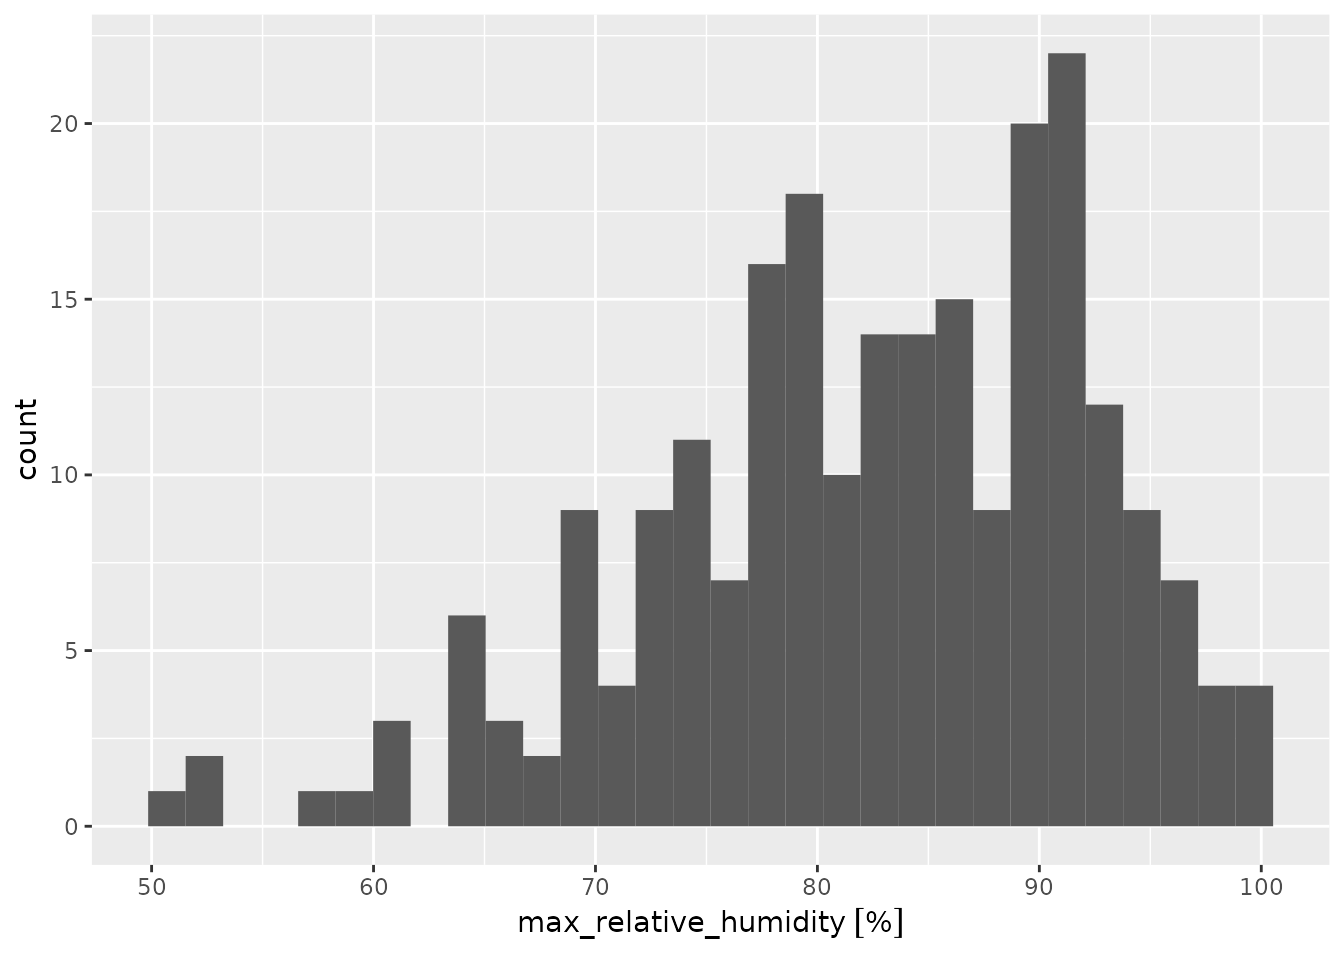
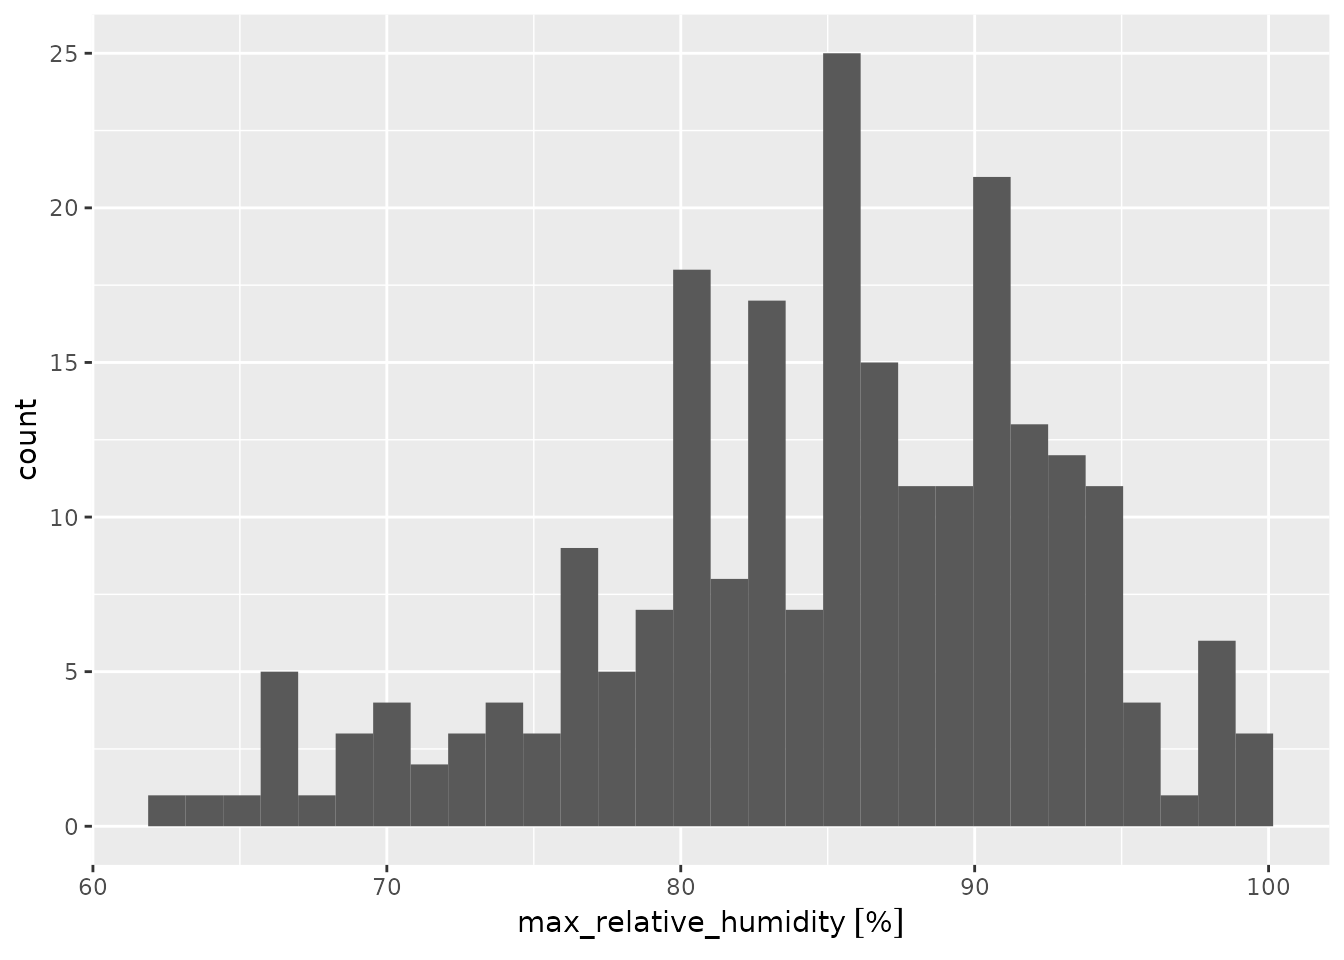
Deploying to gh-pages from @ emf-creaf/meteospain@50d5c1b44555bf137ee41d9114b482b3da4bd959 🚀

diff --git a/articles/meteoclimatic.html b/articles/meteoclimatic.html
@@ -166,12 +166,12 @@ one.</p>
 <p>Accessing station metadata for Meteoclimatic is simple:</p>
 <div class="sourceCode" id="cb3"><pre class="downlit sourceCode r">
 <code class="sourceCode R"><span><span class="fu"><a href="../reference/get_stations_info_from.html">get_stations_info_from</a></span><span class="op">(</span><span class="st">'meteoclimatic'</span>, options <span class="op">=</span> <span class="va">api_options</span><span class="op">)</span></span>
-<span><span class="co">#&gt; Simple feature collection with 235 features and 3 fields</span></span>
+<span><span class="co">#&gt; Simple feature collection with 233 features and 3 fields</span></span>
 <span><span class="co">#&gt; Geometry type: POINT</span></span>
 <span><span class="co">#&gt; Dimension:     XY</span></span>
 <span><span class="co">#&gt; Bounding box:  xmin: 1.58 ymin: 1.66 xmax: 41.48 ymax: 42.26</span></span>
 <span><span class="co">#&gt; Geodetic CRS:  WGS 84</span></span>
-<span><span class="co">#&gt; <span style="color: #949494;"># A tibble: 235 × 4</span></span></span>
+<span><span class="co">#&gt; <span style="color: #949494;"># A tibble: 233 × 4</span></span></span>
 <span><span class="co">#&gt;    service       station_id          station_name          geometry</span></span>
 <span><span class="co">#&gt;  <span style="color: #BCBCBC;">*</span> <span style="color: #949494; font-style: italic;">&lt;chr&gt;</span>         <span style="color: #949494; font-style: italic;">&lt;chr&gt;</span>               <span style="color: #949494; font-style: italic;">&lt;chr&gt;</span>              <span style="color: #949494; font-style: italic;">&lt;POINT [°]&gt;</span></span></span>
 <span><span class="co">#&gt; <span style="color: #BCBCBC;"> 1</span> meteoclimatic ESCAT0800000008591A Aiguafreda (Barc… (2.25 41.77)</span></span>
@@ -184,7 +184,7 @@ one.</p>
 <span><span class="co">#&gt; <span style="color: #BCBCBC;"> 8</span> meteoclimatic ESCAT0800000008911C Badalona - Dalt … (2.26 41.46)</span></span>
 <span><span class="co">#&gt; <span style="color: #BCBCBC;"> 9</span> meteoclimatic ESCAT0800000008917B Badalona - La Pa… (2.22 41.45)</span></span>
 <span><span class="co">#&gt; <span style="color: #BCBCBC;">10</span> meteoclimatic ESCAT0800000008080A Badalona - Llefi… (2.23 41.44)</span></span>
-<span><span class="co">#&gt; <span style="color: #949494;"># … with 225 more rows</span></span></span></code></pre></div>
+<span><span class="co">#&gt; <span style="color: #949494;"># … with 223 more rows</span></span></span></code></pre></div>
 </div>
 <div class="section level3">
 <h3 id="meteoclimatic-data">Meteoclimatic data<a class="anchor" aria-label="anchor" href="#meteoclimatic-data"></a>
@@ -195,25 +195,25 @@ one.</p>
 <span><span class="co"><span style="color: #BBBB00; font-weight: bold;">#&gt; No quality check is performed in this data, and errors in measures or coordinates of stations can be present.</span></span></span>
 <span><span class="co"><span style="color: #BBBB00; font-weight: bold;">#&gt; </span><span style="color: #0000BB; font-weight: bold; text-decoration: underline;">https://www.meteoclimatic.net/index</span></span></span>
 <span><span class="va">current_day_barcelona</span></span>
-<span><span class="co">#&gt; Simple feature collection with 234 features and 9 fields</span></span>
+<span><span class="co">#&gt; Simple feature collection with 233 features and 9 fields</span></span>
 <span><span class="co">#&gt; Geometry type: POINT</span></span>
 <span><span class="co">#&gt; Dimension:     XY</span></span>
 <span><span class="co">#&gt; Bounding box:  xmin: 1.58 ymin: 1.66 xmax: 41.48 ymax: 42.26</span></span>
 <span><span class="co">#&gt; Geodetic CRS:  WGS 84</span></span>
-<span><span class="co">#&gt; <span style="color: #949494;"># A tibble: 234 × 10</span></span></span>
+<span><span class="co">#&gt; <span style="color: #949494;"># A tibble: 233 × 10</span></span></span>
 <span><span class="co">#&gt;    timestamp           service   stati…¹ stati…² min_t…³ max_t…⁴ min_r…⁵ max_r…⁶</span></span>
 <span><span class="co">#&gt;  <span style="color: #BCBCBC;">*</span> <span style="color: #949494; font-style: italic;">&lt;dttm&gt;</span>              <span style="color: #949494; font-style: italic;">&lt;chr&gt;</span>     <span style="color: #949494; font-style: italic;">&lt;chr&gt;</span>   <span style="color: #949494; font-style: italic;">&lt;chr&gt;</span>      <span style="color: #949494;">[°C]</span>    <span style="color: #949494;">[°C]</span>     <span style="color: #949494;">[%]</span>     <span style="color: #949494;">[%]</span></span></span>
-<span><span class="co">#&gt; <span style="color: #BCBCBC;"> 1</span> 2023-01-16 <span style="color: #949494;">11:00:00</span> meteocli… ESCAT0… Granol…     5.1    11.8      62      84</span></span>
-<span><span class="co">#&gt; <span style="color: #BCBCBC;"> 2</span> 2023-01-16 <span style="color: #949494;">11:00:00</span> meteocli… ESCAT0… La Pob…    -<span style="color: #BB0000;">0.6</span>     7.8      46      88</span></span>
-<span><span class="co">#&gt; <span style="color: #BCBCBC;"> 3</span> 2023-01-16 <span style="color: #949494;">11:02:00</span> meteocli… ESCAT0… Vallro…     2.9    11.6      62      98</span></span>
-<span><span class="co">#&gt; <span style="color: #BCBCBC;"> 4</span> 2023-01-16 <span style="color: #949494;">11:04:00</span> meteocli… ESCAT0… Santa …     5.1    12.7      50      79</span></span>
-<span><span class="co">#&gt; <span style="color: #BCBCBC;"> 5</span> 2023-01-16 <span style="color: #949494;">11:04:00</span> meteocli… ESCAT0… Gualba…     4.7    11.8      55      94</span></span>
-<span><span class="co">#&gt; <span style="color: #BCBCBC;"> 6</span> 2023-01-16 <span style="color: #949494;">11:05:00</span> meteocli… ESCAT0… Sant F…     1.9     9.5      64      88</span></span>
-<span><span class="co">#&gt; <span style="color: #BCBCBC;"> 7</span> 2023-01-16 <span style="color: #949494;">11:05:00</span> meteocli… ESCAT0… La Flo…     4.4    13.3      48      75</span></span>
-<span><span class="co">#&gt; <span style="color: #BCBCBC;"> 8</span> 2023-01-16 <span style="color: #949494;">11:05:00</span> meteocli… ESCAT0… Pineda…     6.5    13.3      54      96</span></span>
-<span><span class="co">#&gt; <span style="color: #BCBCBC;"> 9</span> 2023-01-16 <span style="color: #949494;">11:05:00</span> meteocli… ESCAT0… Bagà (…    -<span style="color: #BB0000;">0.7</span>     9.3      54      88</span></span>
-<span><span class="co">#&gt; <span style="color: #BCBCBC;">10</span> 2023-01-16 <span style="color: #949494;">11:05:00</span> meteocli… ESCAT0… Gavà -…     7.5    15.3      44      69</span></span>
-<span><span class="co">#&gt; <span style="color: #949494;"># … with 224 more rows, 2 more variables: precipitation [L/m^2],</span></span></span>
+<span><span class="co">#&gt; <span style="color: #BCBCBC;"> 1</span> 2023-01-20 <span style="color: #949494;">17:30:00</span> meteocli… ESCAT0… Vic - …    -<span style="color: #BB0000;">0.5</span>     9.9      14      91</span></span>
+<span><span class="co">#&gt; <span style="color: #BCBCBC;"> 2</span> 2023-01-20 <span style="color: #949494;">17:30:00</span> meteocli… ESCAT0… La Pob…     0.9     6.6      14      91</span></span>
+<span><span class="co">#&gt; <span style="color: #BCBCBC;"> 3</span> 2023-01-20 <span style="color: #949494;">17:32:00</span> meteocli… ESCAT0… Vallro…     0.7    11.7      61      98</span></span>
+<span><span class="co">#&gt; <span style="color: #BCBCBC;"> 4</span> 2023-01-20 <span style="color: #949494;">17:33:00</span> meteocli… ESCAT0… Molins…     3.2    13.6      36      84</span></span>
+<span><span class="co">#&gt; <span style="color: #BCBCBC;"> 5</span> 2023-01-20 <span style="color: #949494;">17:34:00</span> meteocli… ESCAT0… Sant F…     6.5    11.3      32      66</span></span>
+<span><span class="co">#&gt; <span style="color: #BCBCBC;"> 6</span> 2023-01-20 <span style="color: #949494;">17:34:00</span> meteocli… ESCAT0… Gualba…     0.1    11.9      40      92</span></span>
+<span><span class="co">#&gt; <span style="color: #BCBCBC;"> 7</span> 2023-01-20 <span style="color: #949494;">17:34:00</span> meteocli… ESCAT0… Santa …    -<span style="color: #BB0000;">2.2</span>    10.7      18      92</span></span>
+<span><span class="co">#&gt; <span style="color: #BCBCBC;"> 8</span> 2023-01-20 <span style="color: #949494;">17:34:00</span> meteocli… ESCAT0… Rupit …    -<span style="color: #BB0000;">1.4</span>     5.4      24      97</span></span>
+<span><span class="co">#&gt; <span style="color: #BCBCBC;"> 9</span> 2023-01-20 <span style="color: #949494;">17:34:00</span> meteocli… ESCAT0… Aiguaf…    -<span style="color: #BB0000;">2.4</span>    12.9      14      92</span></span>
+<span><span class="co">#&gt; <span style="color: #BCBCBC;">10</span> 2023-01-20 <span style="color: #949494;">17:34:00</span> meteocli… ESCAT0… Torrel…     4.7    11.7      25      81</span></span>
+<span><span class="co">#&gt; <span style="color: #949494;"># … with 223 more rows, 2 more variables: precipitation [L/m^2],</span></span></span>
 <span><span class="co">#&gt; <span style="color: #949494;">#   geometry &lt;POINT [°]&gt;, and abbreviated variable names ¹station_id,</span></span></span>
 <span><span class="co">#&gt; <span style="color: #949494;">#   ²station_name, ³min_temperature, ⁴max_temperature, ⁵min_relative_humidity,</span></span></span>
 <span><span class="co">#&gt; <span style="color: #949494;">#   ⁶max_relative_humidity</span></span></span></code></pre></div>

diff --git a/articles/meteogalicia.html b/articles/meteogalicia.html
@@ -175,10 +175,10 @@ the <code>stations</code> argument.</p>
 <span><span class="co">#&gt; [1] "instant"</span></span>
 <span><span class="co">#&gt; </span></span>
 <span><span class="co">#&gt; $start_date</span></span>
-<span><span class="co">#&gt; [1] "2023-01-16"</span></span>
+<span><span class="co">#&gt; [1] "2023-01-20"</span></span>
 <span><span class="co">#&gt; </span></span>
 <span><span class="co">#&gt; $end_date</span></span>
-<span><span class="co">#&gt; [1] "2023-01-16"</span></span>
+<span><span class="co">#&gt; [1] "2023-01-20"</span></span>
 <span><span class="co">#&gt; </span></span>
 <span><span class="co">#&gt; $stations</span></span>
 <span><span class="co">#&gt; NULL</span></span>
@@ -193,10 +193,10 @@ the <code>stations</code> argument.</p>
 <span><span class="co">#&gt; [1] "current_day"</span></span>
 <span><span class="co">#&gt; </span></span>
 <span><span class="co">#&gt; $start_date</span></span>
-<span><span class="co">#&gt; [1] "2023-01-16"</span></span>
+<span><span class="co">#&gt; [1] "2023-01-20"</span></span>
 <span><span class="co">#&gt; </span></span>
 <span><span class="co">#&gt; $end_date</span></span>
-<span><span class="co">#&gt; [1] "2023-01-16"</span></span>
+<span><span class="co">#&gt; [1] "2023-01-20"</span></span>
 <span><span class="co">#&gt; </span></span>
 <span><span class="co">#&gt; $stations</span></span>
 <span><span class="co">#&gt; [1] "10157" "14000" "10045"</span></span>
@@ -245,12 +245,12 @@ the <code>stations</code> argument.</p>
 <p>Accessing station metadata for MeteoGalicia is simple:</p>
 <div class="sourceCode" id="cb3"><pre class="downlit sourceCode r">
 <code class="sourceCode R"><span><span class="fu"><a href="../reference/get_stations_info_from.html">get_stations_info_from</a></span><span class="op">(</span><span class="st">'meteogalicia'</span><span class="op">)</span></span>
-<span><span class="co">#&gt; Simple feature collection with 157 features and 5 fields</span></span>
+<span><span class="co">#&gt; Simple feature collection with 156 features and 5 fields</span></span>
 <span><span class="co">#&gt; Geometry type: POINT</span></span>
 <span><span class="co">#&gt; Dimension:     XY</span></span>
 <span><span class="co">#&gt; Bounding box:  xmin: -9.178318 ymin: 41.8982 xmax: -6.765224 ymax: 43.7383</span></span>
 <span><span class="co">#&gt; Geodetic CRS:  WGS 84</span></span>
-<span><span class="co">#&gt; <span style="color: #949494;"># A tibble: 157 × 6</span></span></span>
+<span><span class="co">#&gt; <span style="color: #949494;"># A tibble: 156 × 6</span></span></span>
 <span><span class="co">#&gt;    service      station_id station_n…¹ stati…² altit…³             geometry</span></span>
 <span><span class="co">#&gt;  <span style="color: #BCBCBC;">*</span> <span style="color: #949494; font-style: italic;">&lt;chr&gt;</span>        <span style="color: #949494; font-style: italic;">&lt;chr&gt;</span>      <span style="color: #949494; font-style: italic;">&lt;chr&gt;</span>       <span style="color: #949494; font-style: italic;">&lt;chr&gt;</span>       <span style="color: #949494;">[m]</span>          <span style="color: #949494; font-style: italic;">&lt;POINT [°]&gt;</span></span></span>
 <span><span class="co">#&gt; <span style="color: #BCBCBC;"> 1</span> meteogalicia 10157      Coruña-Tor… A Coru…      21 (-8.409202 43.38276)</span></span>
@@ -263,7 +263,7 @@ the <code>stations</code> argument.</p>
 <span><span class="co">#&gt; <span style="color: #BCBCBC;"> 8</span> meteogalicia 10095      Sergude     A Coru…     231 (-8.461246 42.82283)</span></span>
 <span><span class="co">#&gt; <span style="color: #BCBCBC;"> 9</span> meteogalicia 10800      Camariñas   A Coru…       5 (-9.178318 43.12445)</span></span>
 <span><span class="co">#&gt; <span style="color: #BCBCBC;">10</span> meteogalicia 19001      Rus         A Coru…     134 (-8.685357 43.15616)</span></span>
-<span><span class="co">#&gt; <span style="color: #949494;"># … with 147 more rows, and abbreviated variable names ¹station_name,</span></span></span>
+<span><span class="co">#&gt; <span style="color: #949494;"># … with 146 more rows, and abbreviated variable names ¹station_name,</span></span></span>
 <span><span class="co">#&gt; <span style="color: #949494;">#   ²station_province, ³altitude</span></span></span></code></pre></div>
 </div>
 <div class="section level3">
@@ -282,7 +282,7 @@ the <code>stations</code> argument.</p>
 <span><span class="co"><span style="color: #BBBB00; font-weight: bold;">#&gt; que as utilice para os usos distintos do particular e privado.</span></span></span>
 <span><span class="co">#&gt; <span style="color: #0000BB; font-weight: bold; text-decoration: underline;">https://www.meteogalicia.gal/web/informacion/notaIndex.action</span></span></span>
 <span><span class="va">galicia_2020</span></span>
-<span><span class="co">#&gt; Simple feature collection with 1844 features and 13 fields</span></span>
+<span><span class="co">#&gt; Simple feature collection with 1844 features and 13 fields (with 5 geometries empty)</span></span>
 <span><span class="co">#&gt; Geometry type: POINT</span></span>
 <span><span class="co">#&gt; Dimension:     XY</span></span>
 <span><span class="co">#&gt; Bounding box:  xmin: -9.178318 ymin: 41.8982 xmax: -6.765224 ymax: 43.734</span></span>

diff --git a/articles/api_limits.html b/articles/api_limits.html
@@ -245,8 +245,6 @@ directly:</p>
 <span><span class="co">#&gt; <span style="color: #0000BB; font-weight: bold; text-decoration: underline;">https://www.aemet.es/es/nota_legal</span></span></span>
 <span><span class="co">#&gt; <span style="color: #BBBB00; font-weight: bold;">© AEMET. Autorizado el uso de la información y su reproducción citando a AEMET como autora de la misma.</span></span></span>
 <span><span class="co">#&gt; <span style="color: #0000BB; font-weight: bold; text-decoration: underline;">https://www.aemet.es/es/nota_legal</span></span></span>
-<span><span class="co">#&gt; <span style="color: #BBBB00; font-weight: bold;">API request limit reached: Client error: (429) Too Many Requests (RFC 6585)</span></span></span>
-<span><span class="co">#&gt; Trying again in 60 seconds</span></span>
 <span><span class="co">#&gt; <span style="color: #BBBB00; font-weight: bold;">© AEMET. Autorizado el uso de la información y su reproducción citando a AEMET como autora de la misma.</span></span></span>
 <span><span class="co">#&gt; <span style="color: #0000BB; font-weight: bold; text-decoration: underline;">https://www.aemet.es/es/nota_legal</span></span></span>
 <span></span>
@@ -600,10 +598,10 @@ independently of the date supplied:</p>
 <span><span class="co">#&gt; <span style="color: #BBBB00; font-weight: bold;">Data provided by meteo.cat © Servei Meteorològic de Catalunya</span></span></span>
 <span><span class="co">#&gt; <span style="color: #0000BB; font-weight: bold; text-decoration: underline;">https://www.meteo.cat/wpweb/avis-legal/#info</span></span></span>
 <span><span class="fu"><a href="https://rdrr.io/r/base/unique.html" class="external-link">unique</a></span><span class="op">(</span><span class="va">all_years</span><span class="op">$</span><span class="va">timestamp</span><span class="op">)</span></span>
-<span><span class="co">#&gt;  [1] "2008-01-16 UTC" "2009-01-16 UTC" "2010-01-16 UTC" "2011-01-16 UTC"</span></span>
-<span><span class="co">#&gt;  [5] "2012-01-16 UTC" "2013-01-16 UTC" "2014-01-16 UTC" "2015-01-16 UTC"</span></span>
-<span><span class="co">#&gt;  [9] "2016-01-16 UTC" "2017-01-16 UTC" "2018-01-16 UTC" "2019-01-16 UTC"</span></span>
-<span><span class="co">#&gt; [13] "2020-01-16 UTC" "2021-01-16 UTC" "2022-01-16 UTC"</span></span></code></pre></div>
+<span><span class="co">#&gt;  [1] "2008-01-20 UTC" "2009-01-20 UTC" "2010-01-20 UTC" "2011-01-20 UTC"</span></span>
+<span><span class="co">#&gt;  [5] "2012-01-20 UTC" "2013-01-20 UTC" "2014-01-20 UTC" "2015-01-20 UTC"</span></span>
+<span><span class="co">#&gt;  [9] "2016-01-20 UTC" "2017-01-20 UTC" "2018-01-20 UTC" "2019-01-20 UTC"</span></span>
+<span><span class="co">#&gt; [13] "2020-01-20 UTC" "2021-01-20 UTC" "2022-01-20 UTC"</span></span></code></pre></div>
 <p>This means that with yearly we always get all the data available, so
 there is no need of loops.</p>
 </div>

diff --git a/reference/get_quota_from.html b/reference/get_quota_from.html
@@ -129,8 +129,8 @@ quota numbers in the services that allow for this, <strong>(currently only Meteo
 <span class="r-out co"><span class="r-pr">#&gt;</span> <span style="color: #BCBCBC;">1</span> Prediccio_8000   Mensual         <span style="text-decoration: underline;">8</span>000              <span style="text-decoration: underline;">8</span>000                    0</span>
 <span class="r-out co"><span class="r-pr">#&gt;</span> <span style="color: #BCBCBC;">2</span> Referència Bàsic Mensual         <span style="text-decoration: underline;">2</span>000              <span style="text-decoration: underline;">2</span>000                    0</span>
 <span class="r-out co"><span class="r-pr">#&gt;</span> <span style="color: #BCBCBC;">3</span> XDDE_1500        Mensual         <span style="text-decoration: underline;">1</span>500              <span style="text-decoration: underline;">1</span>500                    0</span>
-<span class="r-out co"><span class="r-pr">#&gt;</span> <span style="color: #BCBCBC;">4</span> XEMA_20000       Mensual        <span style="text-decoration: underline;">20</span>000             <span style="text-decoration: underline;">20</span>000                    0</span>
-<span class="r-out co"><span class="r-pr">#&gt;</span> <span style="color: #BCBCBC;">5</span> Quota            Mensual          300               299                    1</span>
+<span class="r-out co"><span class="r-pr">#&gt;</span> <span style="color: #BCBCBC;">4</span> XEMA_20000       Mensual        <span style="text-decoration: underline;">20</span>000             <span style="text-decoration: underline;">16</span>853                 <span style="text-decoration: underline;">3</span>147</span>
+<span class="r-out co"><span class="r-pr">#&gt;</span> <span style="color: #BCBCBC;">5</span> Quota            Mensual          300               284                   16</span>
 <span class="r-in"><span><span class="co"># }</span></span></span>
 <span class="r-in"><span></span></span>
 </code></pre></div>

diff --git a/articles/ria.html b/articles/ria.html
@@ -177,10 +177,10 @@ reference.</p>
 <span><span class="co">#&gt; [1] "daily"</span></span>
 <span><span class="co">#&gt; </span></span>
 <span><span class="co">#&gt; $start_date</span></span>
-<span><span class="co">#&gt; [1] "2023-01-15"</span></span>
+<span><span class="co">#&gt; [1] "2023-01-19"</span></span>
 <span><span class="co">#&gt; </span></span>
 <span><span class="co">#&gt; $end_date</span></span>
-<span><span class="co">#&gt; [1] "2023-01-15"</span></span>
+<span><span class="co">#&gt; [1] "2023-01-19"</span></span>
 <span><span class="co">#&gt; </span></span>
 <span><span class="co">#&gt; $stations</span></span>
 <span><span class="co">#&gt; NULL</span></span>
@@ -195,10 +195,10 @@ reference.</p>
 <span><span class="co">#&gt; [1] "daily"</span></span>
 <span><span class="co">#&gt; </span></span>
 <span><span class="co">#&gt; $start_date</span></span>
-<span><span class="co">#&gt; [1] "2023-01-15"</span></span>
+<span><span class="co">#&gt; [1] "2023-01-19"</span></span>
 <span><span class="co">#&gt; </span></span>
 <span><span class="co">#&gt; $end_date</span></span>
-<span><span class="co">#&gt; [1] "2023-01-15"</span></span>
+<span><span class="co">#&gt; [1] "2023-01-19"</span></span>
 <span><span class="co">#&gt; </span></span>
 <span><span class="co">#&gt; $stations</span></span>
 <span><span class="co">#&gt; [1] "14-2" "4-2"</span></span>

diff --git a/news/index.html b/news/index.html
@@ -80,7 +80,7 @@
     </div>
 
     <div class="section level2">
-<h2 class="page-header" data-toc-text="0.1.0" id="meteospain-010">meteospain 0.1.0<a class="anchor" aria-label="anchor" href="#meteospain-010"></a></h2>
+<h2 class="page-header" data-toc-text="0.1.0" id="meteospain-010">meteospain 0.1.0<small>2023-01-17</small><a class="anchor" aria-label="anchor" href="#meteospain-010"></a></h2>
 <ul><li>Substitute <code>.data</code> calls by <code>"variable_name"</code> as recommended by tidyselect after deprecation of <code>.data</code>
 </li>
 <li>Fixed new meteogalicia API by <a href="https://github.com/dataleteo" class="external-link">@dataleteo</a> (<a href="https://github.com/emf-creaf/meteospain/issues/13" class="external-link">#13</a>)</li>

diff --git a/articles/aemet.html b/articles/aemet.html
@@ -188,10 +188,10 @@ and accessing keys:</p>
 <span><span class="co">#&gt; [1] "current_day"</span></span>
 <span><span class="co">#&gt; </span></span>
 <span><span class="co">#&gt; $start_date</span></span>
-<span><span class="co">#&gt; [1] "2023-01-16"</span></span>
+<span><span class="co">#&gt; [1] "2023-01-20"</span></span>
 <span><span class="co">#&gt; </span></span>
 <span><span class="co">#&gt; $end_date</span></span>
-<span><span class="co">#&gt; [1] "2023-01-16"</span></span>
+<span><span class="co">#&gt; [1] "2023-01-20"</span></span>
 <span><span class="co">#&gt; </span></span>
 <span><span class="co">#&gt; $stations</span></span>
 <span><span class="co">#&gt; NULL</span></span>

diff --git a/articles/meteocat.html b/articles/meteocat.html
@@ -206,7 +206,7 @@ and accessing keys:</p>
 <span><span class="co">#&gt; [1] "instant"</span></span>
 <span><span class="co">#&gt; </span></span>
 <span><span class="co">#&gt; $start_date</span></span>
-<span><span class="co">#&gt; [1] "2023-01-16"</span></span>
+<span><span class="co">#&gt; [1] "2023-01-20"</span></span>
 <span><span class="co">#&gt; </span></span>
 <span><span class="co">#&gt; $stations</span></span>
 <span><span class="co">#&gt; NULL</span></span>
